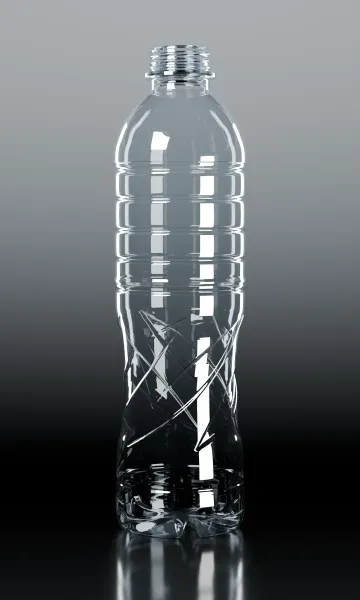
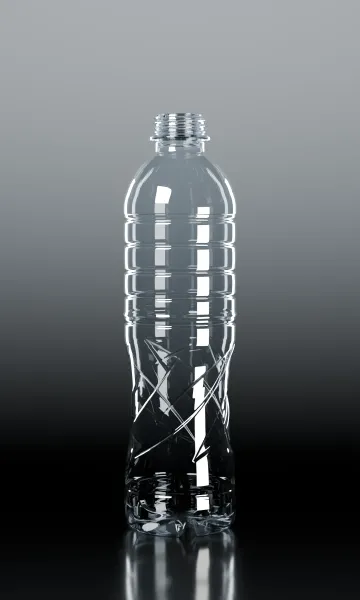
Botellas: la de 500 ml más ancha que la de 400; encuadre que respeta el tamaño de cada botella

Changed region(s): [[0.3056, 0.06, 0.7028, 1.0]]

diff --git a/index.html b/index.html
@@ -4733,7 +4733,7 @@ html.night .ix-v-side{background:#2C323B}
      Izquierda: la foto (img/botellas/d{ml}.webp, 60-120 KB; solo se baja la elegida y sus vecinas). Tocarla la acerca 2,2× donde tocaste, sin seguir al dedo.
      Derecha: el mismo panel que Contenedores (tamaño, precio, por bulto, cantidad y carrito). Medidas: alto medido por Ian (250 ml = 15 cm) y el resto por foto y capacidad. */
   var BT_INFO = {250: {alto: 150, diam: 52.7, d: "Escudos arriba y casitas abajo"}, 300: {alto: 185, diam: 54.6, d: "Cintura con paneles de puntitos para el agarre"},
-    360: {alto: 209, diam: 55.0, d: "Escudos y casitas altas en punta"}, 400: {alto: 203, diam: 56.4, d: "Hojas en espiral"}, 500: {alto: 219, diam: 60.9, d: "Hojas en espiral"},
+    360: {alto: 209, diam: 55.0, d: "Escudos y casitas altas en punta"}, 400: {alto: 203, diam: 56.4, d: "Hojas en espiral"}, 500: {alto: 211, diam: 60.9, d: "Hojas en espiral, más ancha que la de 400"},
     1000: {alto: 285, diam: 81.2, d: "Panal de abejas y hojas en espiral"}};
   var btv = {ml: 500, q: 1, bk: false, bko: {n: 1, s: 0}};
   function btMl(it){ var x = /(\d+)\s*ml/i.exec(it.m || ""); return x ? +x[1] : 0; }
